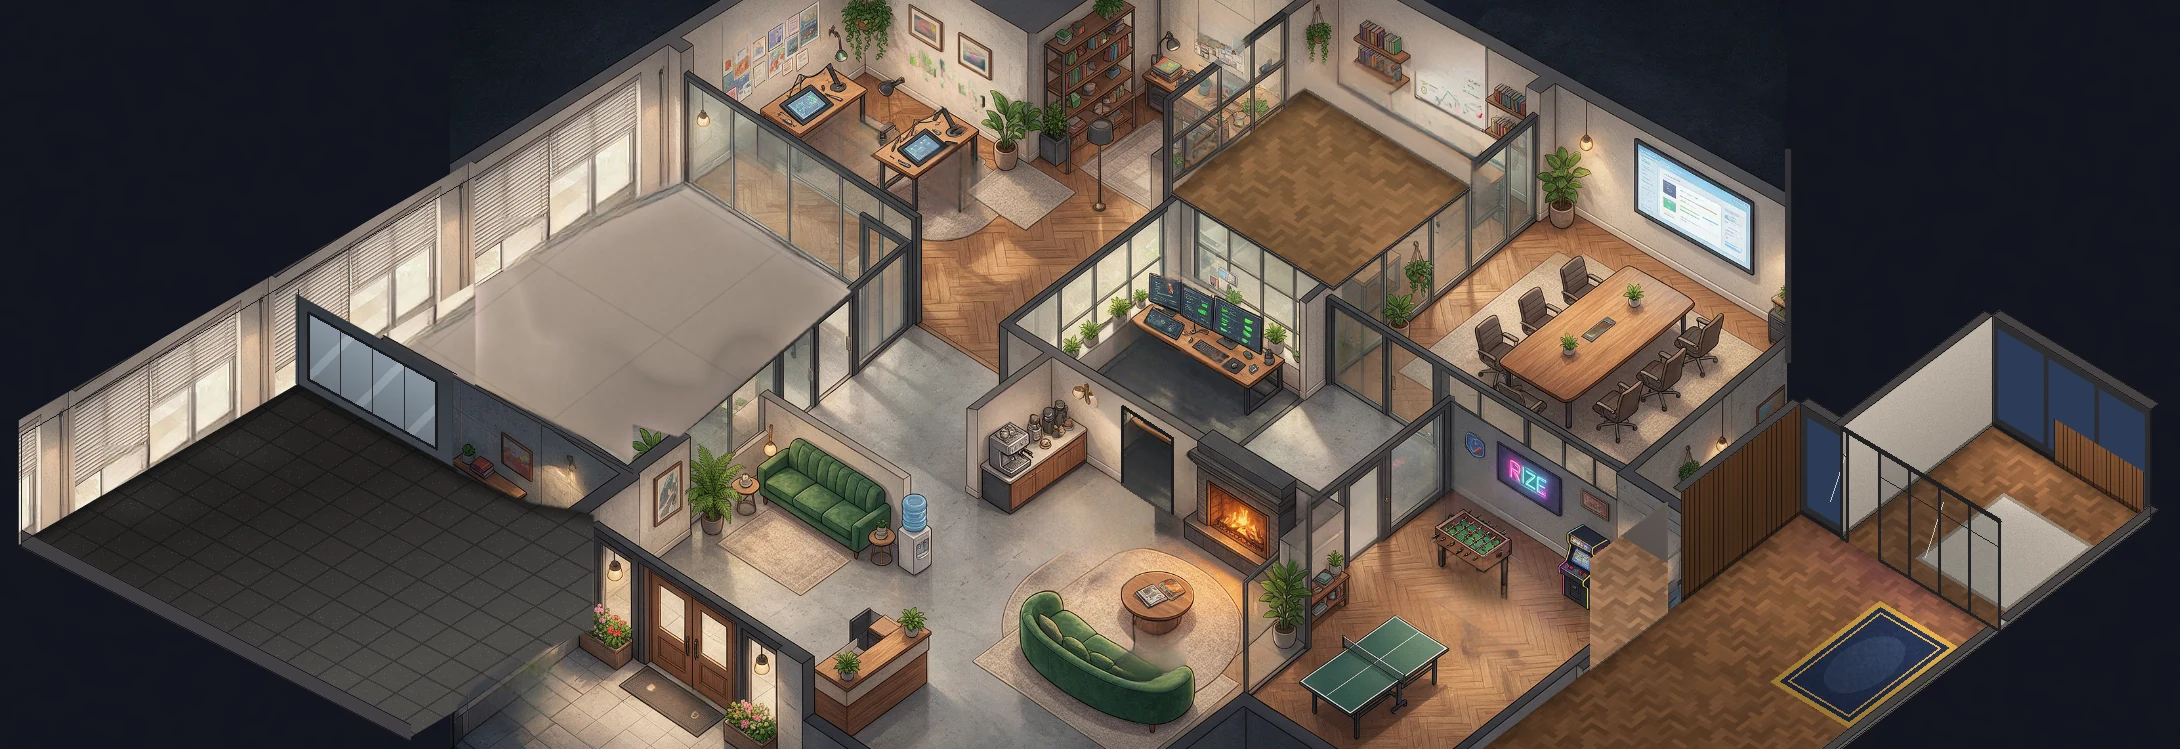
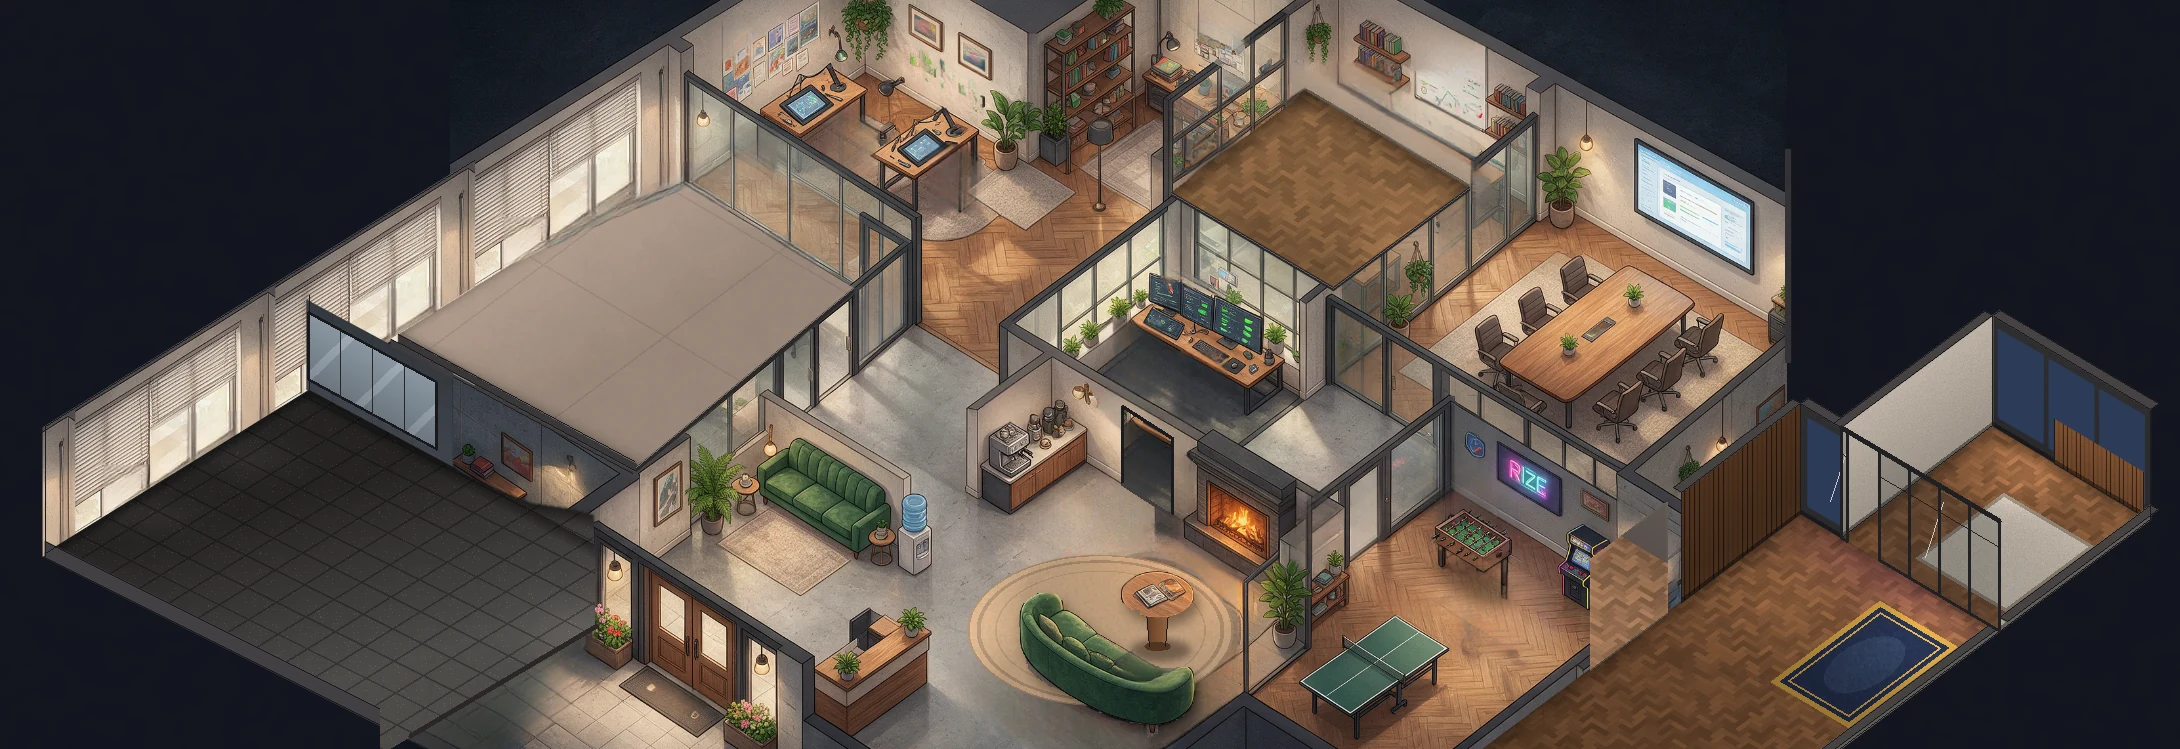
Office: seamless Dev/Gym window wall and wall caps, Game Hall glass front, whole lounge rug, clean gym/entrance corner, realistic QA monitors + mobile preview, chairs cover agents seated with their backs to us, COO seated at her MacBook, CEO sits in the sofa
Claude-Session: https://claude.ai/code/session_014QPjQaWDAzASPKphvhVXZU

diff --git a/apps/dashboard/src/components/office/engine/screens.ts b/apps/dashboard/src/components/office/engine/screens.ts
@@ -111,6 +111,7 @@ export class ScreenLayer {
         ctx.setTransform((tr.x - tl.x) / CW, (tr.y - tl.y) / CW, (bl.x - tl.x) / CH, (bl.y - tl.y) / CH, tl.x, tl.y);
         ctx.beginPath(); ctx.rect(0, 0, CW, CH); ctx.clip();
         drawApp(ctx, info, t, i, s.quads.length, s.agentId);
+        screenFinish(ctx);
         ctx.restore();
       });
     }
@@ -145,6 +146,7 @@ function drawApp(ctx: CanvasRenderingContext2D, info: ScreenInfo, t: number, ind
   const app = info.app;
   if (app === 'off') { bar(ctx, 0, 0, CW, CH, '#07080c'); return; }
   if (app === 'screensaver') { drawScreensaver(ctx, t, index, seed); return; }
+  if (app === 'review' && index === 3) { drawMobilePreview(ctx, info, t, rnd); return; }
   // A second monitor shows the "result" side (preview / tests / chart) of the same work.
   const side = count > 1 && index === count - 1;
   const title = info.title || 'Working';
@@ -226,16 +228,23 @@ function drawApp(ctx: CanvasRenderingContext2D, info: ScreenInfo, t: number, ind
       return;
     }
     case 'review': {
+      // QA station: the page under test (desktop), the checklist, the scores, and the mobile preview on the tablet.
+      if (index === 3) { drawMobilePreview(ctx, info, t, rnd); return; }
+      if (index === 0 && count > 2) { drawPagePreview(ctx, info, t, rnd, false); return; }
+      if (index === 2 && count > 2) { drawScores(ctx, info, t, rnd); return; }
       bar(ctx, 0, 0, CW, CH, '#0f1720');
-      text(ctx, side ? 'Checks' : `QA · ${title}`, 6, 11, 8, '#e2f7ec', CW - 12, 800);
+      bar(ctx, 0, 0, CW, 14, '#16212d');
+      text(ctx, `QA · ${title}`, 6, 10, 7.5, '#e2f7ec', CW - 12, 800);
       const n = 7;
       const done = Math.floor((t * 0.8) % (n + 3));
+      const labels = ['Links & buttons', 'Mobile layout', 'Spelling', 'Images / alt', 'Page speed', 'SEO meta', 'Brand check'];
       for (let i = 0; i < n; i++) {
-        const y = 20 + i * 10.5;
+        const y = 19 + i * 10.5;
         const state = i < done ? (rnd(i + 3) < 0.86 ? 'ok' : 'x') : i === done ? 'run' : 'wait';
         const c = state === 'ok' ? '#39d98a' : state === 'x' ? '#ff6b6b' : state === 'run' ? '#ffd166' : '#3b4a5a';
-        ctx.fillStyle = c; ctx.beginPath(); ctx.arc(10, y + 3, 3, 0, Math.PI * 2); ctx.fill();
-        bar(ctx, 18, y + 1.5, 40 + rnd(i) * 70, 3.4, state === 'wait' ? '#2b3746' : '#a9b8c9');
+        ctx.fillStyle = c; ctx.beginPath(); ctx.arc(10, y + 3.5, 3, 0, Math.PI * 2); ctx.fill();
+        text(ctx, labels[i], 18, y + 6, 6.5, state === 'wait' ? '#5b6b7d' : '#c9d6e3', 90, 600);
+        text(ctx, state === 'ok' ? 'pass' : state === 'x' ? 'fix' : state === 'run' ? '…' : '', CW - 26, y + 6, 6, c, 22, 700);
       }
       progressBar(ctx, info.progress, CH - 6, '#39d98a');
       return;
@@ -273,6 +282,81 @@ function drawApp(ctx: CanvasRenderingContext2D, info: ScreenInfo, t: number, ind
       progressBar(ctx, info.progress, CH - 6, info.color);
     }
   }
+}
+
+/** A web page being checked, scrolling slowly (desktop viewport). */
+function drawPagePreview(ctx: CanvasRenderingContext2D, info: ScreenInfo, t: number, rnd: (i: number) => number, _mobile: boolean) {
+  bar(ctx, 0, 0, CW, CH, '#f8fafc');
+  bar(ctx, 0, 0, CW, 11, '#e2e8f0');
+  [0, 1, 2].forEach((i) => { ctx.fillStyle = ['#ff5f57', '#febc2e', '#28c840'][i]; ctx.beginPath(); ctx.arc(6 + i * 6, 5.5, 2, 0, Math.PI * 2); ctx.fill(); });
+  bar(ctx, 26, 2.5, CW - 34, 6, '#ffffff'); text(ctx, 'staging.client-site.com', 29, 7.6, 5, '#64748b', CW - 40, 500);
+  ctx.save(); ctx.beginPath(); ctx.rect(0, 11, CW, CH - 11); ctx.clip();
+  const scroll = (t * 9) % 120;
+  ctx.translate(0, 11 - scroll);
+  bar(ctx, 0, 0, CW, 8, '#111827'); for (let i = 0; i < 4; i++) bar(ctx, CW - 70 + i * 16, 3, 11, 2, '#9ca3af');
+  bar(ctx, 0, 8, CW, 46, info.color || '#7c3aed');
+  text(ctx, info.title || 'Landing page', 10, 26, 10, '#ffffff', CW - 20, 800);
+  bar(ctx, 10, 32, 90, 3, 'rgba(255,255,255,.75)'); bar(ctx, 10, 38, 70, 3, 'rgba(255,255,255,.6)');
+  bar(ctx, 10, 44, 34, 7, '#ffffff');
+  for (let c = 0; c < 3; c++) { bar(ctx, 8 + c * 50, 60, 44, 30, '#e5e7eb'); bar(ctx, 12 + c * 50, 64, 36, 14, ['#c4b5fd', '#93c5fd', '#fcd34d'][c]); bar(ctx, 12 + c * 50, 82, 30, 3, '#9ca3af'); }
+  for (let i = 0; i < 8; i++) bar(ctx, 10, 98 + i * 8, 60 + rnd(i + 20) * 80, 3.2, '#cbd5e1');
+  bar(ctx, 0, 170, CW, 60, '#111827');
+  ctx.restore();
+  // QA highlight box hunting over the page
+  const hx = 12 + ((Math.sin(t * 0.7) + 1) / 2) * 90; const hy = 30 + ((Math.cos(t * 0.53) + 1) / 2) * 50;
+  ctx.strokeStyle = '#ef4444'; ctx.lineWidth = 1.2; ctx.setLineDash([3, 2]); ctx.strokeRect(hx, hy, 46, 18); ctx.setLineDash([]);
+}
+
+/** Lighthouse-style scores and a small trend. */
+function drawScores(ctx: CanvasRenderingContext2D, info: ScreenInfo, t: number, rnd: (i: number) => number) {
+  bar(ctx, 0, 0, CW, CH, '#0b1220');
+  text(ctx, 'Page checks', 6, 10, 7.5, '#e5e7eb', CW - 12, 800);
+  const names = ['Perf', 'A11y', 'SEO', 'Best'];
+  names.forEach((n, i) => {
+    const cx = 22 + i * 38; const cy = 38; const v = 0.72 + rnd(i + 9) * 0.26;
+    const p = Math.min(v, ((t * 0.3 + i * 0.2) % 1.6));
+    const c = v > 0.9 ? '#22c55e' : v > 0.8 ? '#f59e0b' : '#ef4444';
+    ctx.lineWidth = 3.4; ctx.strokeStyle = 'rgba(255,255,255,.12)'; ctx.beginPath(); ctx.arc(cx, cy, 12, 0, Math.PI * 2); ctx.stroke();
+    ctx.strokeStyle = c; ctx.beginPath(); ctx.arc(cx, cy, 12, -Math.PI / 2, -Math.PI / 2 + Math.PI * 2 * p); ctx.stroke();
+    text(ctx, `${Math.round(p * 100)}`, cx - 6, cy + 3, 7, '#f8fafc', 20, 800);
+    text(ctx, n, cx - 8, cy + 22, 6, '#94a3b8', 30, 600);
+  });
+  ctx.strokeStyle = '#38bdf8'; ctx.lineWidth = 1.4; ctx.beginPath();
+  for (let i = 0; i <= 16; i++) { const x = 8 + i * 9; const y = 86 - (rnd(i + 40) * 10 + i * 0.6); if (i) ctx.lineTo(x, y); else ctx.moveTo(x, y); }
+  ctx.stroke();
+  progressBar(ctx, info.progress, CH - 6, '#39d98a');
+}
+
+/** The tablet on the QA desk: the same page on two phone viewports (iPhone / Android), scrolling. */
+function drawMobilePreview(ctx: CanvasRenderingContext2D, info: ScreenInfo, t: number, rnd: (i: number) => number) {
+  bar(ctx, 0, 0, CW, CH, '#1f2937');
+  text(ctx, 'Mobile preview', 6, 9, 6.5, '#e5e7eb', 80, 700);
+  [0, 1].forEach((k) => {
+    const x = 22 + k * 64; const y = 13; const w = 44; const h = 82;
+    ctx.fillStyle = '#0b0b0f'; ctx.beginPath(); ctx.roundRect(x - 2.5, y - 2.5, w + 5, h + 5, 6); ctx.fill();
+    ctx.save(); ctx.beginPath(); ctx.roundRect(x, y, w, h, 4); ctx.clip();
+    bar(ctx, x, y, w, h, '#f8fafc');
+    const sc = ((t * 7 + k * 25) % 70);
+    ctx.translate(0, -sc);
+    bar(ctx, x, y + 6, w, 30, info.color || '#7c3aed');
+    text(ctx, info.title || 'Page', x + 3, y + 20, 5.5, '#fff', w - 6, 800);
+    bar(ctx, x + 3, y + 26, 22, 4, '#fff');
+    for (let i = 0; i < 10; i++) bar(ctx, x + 3, y + 42 + i * 7, 18 + rnd(i + k * 11) * 20, 2.6, '#cbd5e1');
+    bar(ctx, x + 3, y + 112, w - 6, 18, '#e5e7eb');
+    ctx.restore();
+    bar(ctx, x + w / 2 - 6, y + 1.5, 12, 2.6, '#0b0b0f'); // notch
+    // a tap ripple now and then
+    const ph = (t * 0.6 + k * 0.5) % 1;
+    if (ph < 0.35) { ctx.strokeStyle = `rgba(59,130,246,${0.8 - ph * 2})`; ctx.lineWidth = 1; ctx.beginPath(); ctx.arc(x + 12 + rnd(k + Math.floor(t * 0.6)) * 20, y + 30 + rnd(k + 5) * 30, 2 + ph * 14, 0, Math.PI * 2); ctx.stroke(); }
+  });
+}
+
+/** Glass finish over any screen: a thin dark bezel and a soft diagonal reflection. */
+function screenFinish(ctx: CanvasRenderingContext2D) {
+  const g = ctx.createLinearGradient(0, 0, CW, CH);
+  g.addColorStop(0, 'rgba(255,255,255,0.10)'); g.addColorStop(0.35, 'rgba(255,255,255,0.02)'); g.addColorStop(0.36, 'rgba(255,255,255,0)'); g.addColorStop(1, 'rgba(0,0,0,0.12)');
+  ctx.fillStyle = g; ctx.fillRect(0, 0, CW, CH);
+  ctx.strokeStyle = 'rgba(8,10,14,0.9)'; ctx.lineWidth = 3; ctx.strokeRect(0, 0, CW, CH);
 }
 
 /** RizeHub screensaver: navy grid, drifting aurora, twinkles, and the RizeHub wordmark gliding and bouncing

diff --git a/apps/dashboard/src/components/office/engine/OfficeScene.ts b/apps/dashboard/src/components/office/engine/OfficeScene.ts
@@ -608,7 +608,9 @@ export class OfficeScene extends Phaser.Scene {
       const wp = world(rp.x, rp.y);
       // Painter's order by the feet on screen; seated people sit just in front of their chair; someone on
       // the treadmill stands on its belt (in front of the machine).
-      c.view.place(wp.x, wp.y, wp.y + (m.phase === 'seated' ? 2 : 0) + (m.loop === 'treadmill' && m.at ? 90 : 0));
+      // someone sitting on a sprite sofa sits in front of its back and arms (the sofa's slices sort by its front edge)
+      const onSofaSprite = m.at?.startsWith('spot:ceo-sofa') && (m.phase === 'seated' || m.phase === 'sitting_down' || m.phase === 'standing_up');
+      c.view.place(wp.x, wp.y, wp.y + (m.phase === 'seated' ? 2 : 0) + (m.loop === 'treadmill' && m.at ? 90 : 0) + (onSofaSprite ? 34 * S : 0));
       const onScreen = wp.x > vx0 && wp.x < vx1 && wp.y > vy0 && wp.y < vy1;
       c.view.object.setVisible(onScreen);
       if (!onScreen) continue;

diff --git a/apps/dashboard/src/components/office/engine/characters.ts b/apps/dashboard/src/components/office/engine/characters.ts
@@ -181,7 +181,7 @@ class PoseView implements CharacterView {
     if (m.gesture) { const g = m.gesture.t / m.gesture.dur; bob -= Math.sin(g * Math.PI * 3) * (m.gesture.name === 'done' ? 0.07 : 0.03) * s * this.c.heightPx; }
     if (m.micro?.name === 'stretch') sy += Math.sin((m.micro.t / m.micro.dur) * Math.PI) * 0.05;
     if (m.phase === 'sitting_down' || m.phase === 'standing_up') sy *= 0.94;
-    const sitLift = (seated ? (pose === 'sit_type' ? 0.28 : pose === 'sofa_back' ? 0.2 : 0.25) : 0) * s * this.c.heightPx;
+    const sitLift = (seated ? (pose === 'sit_type' ? 0.2 : pose === 'sofa_back' ? 0.2 : 0.25) : 0) * s * this.c.heightPx;
     this.img.setOrigin(flip ? 1 - e.ax : e.ax, e.ay);
     this.img.setScale(flip ? -s : s, s * sy);
     this.img.setPosition(dx, bob - sitLift);

diff --git a/apps/dashboard/src/components/office/logic/office.test.ts b/apps/dashboard/src/components/office/logic/office.test.ts
@@ -226,7 +226,7 @@ test('director: status → place (desk, break spot, boardroom, offline)', () => 
   assert.equal(by.get('qa-lead')!.goal!.key, 'desk:qa-lead');
   assert.equal(by.get('qa-lead')!.screen, 'review');
   // demo has a request in "planning": the COO runs the meeting from the Boardroom head seat
-  assert.equal(by.get('coo')!.goal!.key, 'spot:board-head');
+  assert.equal(by.get('coo')!.goal!.key, 'desk:coo'); // she runs it seated at her laptop
   assert.ok(model.meeting?.label.startsWith('Meeting:'));
   const off: HqSnapshot = { ...s, agents: s.agents.map((a) => (a.id === 'writer' ? { ...a, enabled: false } : a)) };
   assert.equal(deriveOffice(off, { nowMs: 0 }).agents.find((a) => a.id === 'writer')!.goal, null);

diff --git a/apps/dashboard/src/components/office/engine/furniture.ts b/apps/dashboard/src/components/office/engine/furniture.ts
@@ -209,7 +209,10 @@ export class FurnitureLayer {
     c.img.setScale(1 - frac * 0.35, 1);
     // Someone sitting with their back to us is behind the backrest; facing us, the chair is behind them.
     // The seated person is always drawn over the chair (their back covers the backrest seen from behind).
-    c.img.setDepth(p.y + (occupied ? 1 : 0.5));
+    // Seen from behind (seat faces up / left) the backrest is between us and the person: the chair covers their
+    // back and hips, only head and shoulders show over it. Facing us, the person sits in front of the chair.
+    const backToUs = c.seat.face === 'up' || c.seat.face === 'left';
+    c.img.setDepth(p.y + (occupied ? (backToUs ? 3 : 1) : 0.5));
   }
 
   destroy() {

diff --git a/apps/dashboard/src/components/office/logic/director.ts b/apps/dashboard/src/components/office/logic/director.ts
@@ -182,7 +182,7 @@ export function deriveOffice(snap: HqSnapshot, opts: DeriveOptions): OfficeModel
     }
     // COO runs planning meetings in the Boardroom.
     if (t.id === COO_ID && plan) {
-      return { ...base, goal: spotGoal(head, 'present'), tag: `In the Boardroom · ${plan.label}`, badge: null, screen: 'screensaver' };
+      return { ...base, goal: deskGoal(m, t.id, 'type') ?? spotGoal(head, head.pose === 'sit' ? 'type' : 'present'), tag: `In the Boardroom · ${plan.label}`, badge: null, screen: 'screensaver' };
     }
     // The COO walks over to a desk to hand over a freshly queued task.
     if (t.id === COO_ID && (t.status === 'working' || t.status === 'idle')) {

diff --git a/apps/dashboard/src/components/office/engine/doors.ts b/apps/dashboard/src/components/office/engine/doors.ts
@@ -68,6 +68,7 @@ export class DoorLayer {
         g.lineStyle(2 * S, 0x24272b, 0.9);
         g.lineBetween(p.x, p.y, q.x, q.y); // floor track
         if (k === 0 || k === n - 1) { g.lineStyle(3.2 * S, 0x24272b, 1); const e = k === 0 ? p : q; g.lineBetween(e.x, e.y, e.x, e.y - h); }
+        else if (k % 3 === 0) { g.lineStyle(2.2 * S, 0x24272b, 0.95); g.lineBetween(p.x, p.y, p.x, p.y - h); } // mullion
         g.setDepth(Math.max(p.y, q.y));
         this.walls.push(g);
       }

diff --git a/scripts/office/fix_dev_edges.py b/scripts/office/fix_dev_edges.py
@@ -1,0 +1,81 @@
+"""Dev Team room edges after the gym extension (v5): one consistent concrete floor over the whole room (old part +
+the part the gym extension revealed), and clean wall tops: the front-left low wall's cap (continuing to the window
+wall) and the top rail of the glass partition on the front-right. Coordinates: OLD picture px (x offset E=450 in the
+extended canvas). Usage: python3 fix_dev_edges.py in.png out.png"""
+import os, sys
+import numpy as np, cv2 as cv
+sys.path.insert(0, os.path.dirname(os.path.abspath(__file__)))
+from iso import Mi, O
+from floorsynth import hash2  # noqa: F401  (kept for parity with the other floor scripts)
+
+E = 450
+HERE = os.path.dirname(os.path.abspath(__file__))
+BASE = lambda x: 302 - 0.62 * x            # window wall base (back-left)
+FL_IN = lambda x: 362 + 0.541 * x          # front-left low wall: inner edge of its cap
+FL_OUT = lambda x: 370 + 0.541 * x         # outer edge
+CORNER = (186.0, FL_OUT(186.0))            # front corner: the glass partition starts here
+RAIL_END = (403.0, 288.0)                  # top rail of the glass partition (up-right), ends at the dev door
+XL = (362 - 302) / (-0.62 - 0.541)         # back-left corner (window base ∩ front-left wall), ~ -51.7
+CAPC = np.array([56, 55, 58], np.float32)
+INK = (30, 27, 26)
+
+def P(x, y): return (x + E, y)
+def fill(m, pts, v=255):
+    cv.fillPoly(m, [np.array([[round((x + E) * 4), round(y * 4)] for x, y in pts], np.int32)], v, cv.LINE_AA, shift=2)
+def ln(c, p, q, col=INK, th=1):
+    cv.line(c, (round((p[0] + E) * 4), round(p[1] * 4)), (round((q[0] + E) * 4), round(q[1] * 4)), col, th, cv.LINE_AA, shift=2)
+
+def main(src, out):
+    img = cv.imread(src).astype(np.float32)
+    H, W = img.shape[:2]
+    # ---- the room's floor polygon (old px)
+    m_old = cv.imread(f'{HERE}/mask-floor-dev.png', 0)
+    floor = np.zeros((H, W), np.uint8)
+    floor[:, E:E + m_old.shape[1]] = m_old
+    poly = np.zeros((H, W), np.uint8)
+    rail_y = lambda x: CORNER[1] + (RAIL_END[1] - CORNER[1]) * (x - CORNER[0]) / (RAIL_END[0] - CORNER[0])
+    fill(poly, [(XL, BASE(XL)), (60, BASE(60)), (236, 188), (RAIL_END[0], RAIL_END[1]), CORNER, (XL, FL_OUT(XL))])
+    floor = np.maximum(floor, poly)
+    # keep painted things that stand on the floor out of the repaint: nothing (desks are sprites), but never paint
+    # over the window wall (above its base line)
+    ys, xs = np.mgrid[0:H, 0:W].astype(np.float32); xo = xs - E
+    floor[ys < BASE(xo) - 0.5] = 0
+    # ---- polished concrete laid out on the iso grid (same look as floorsynth.py's concrete)
+    px, py = xo - O[0], ys - O[1]
+    tx = Mi[0, 0] * px + Mi[0, 1] * py; ty = Mi[1, 0] * px + Mi[1, 1] * py
+    rng = np.random.default_rng(7)
+    n1 = cv.GaussianBlur(rng.standard_normal((H, W)).astype(np.float32), (0, 0), 6) * 0.9
+    n2 = cv.GaussianBlur(rng.standard_normal((H, W)).astype(np.float32), (0, 0), 1.2) * 0.35
+    f = 1 + n1 * 0.09 + n2 * 0.07
+    jx = np.abs(((tx + 1.5) % 3.0) - 1.5); jy = np.abs(((ty + 1.5) % 3.0) - 1.5)
+    f = f * np.where(np.minimum(jx, jy) < 0.02, 0.93, 1.0)
+    # light: brighter by the windows (back-left), falling off towards the front; soft pools under the windows
+    dwin = np.clip((ys - BASE(xo)) / 160.0, 0, 1)
+    L = 1.08 - 0.16 * dwin
+    L *= 1 - 0.22 * np.exp(-np.clip(ys - BASE(xo), 0, None) / 5.0)       # contact shadow at the window wall
+    L *= 1 - 0.25 * np.exp(-np.clip(FL_IN(xo) - ys, 0, None) / 6.0)      # and at the front low wall
+    # sample the base colour from the existing floor in the middle of the room
+    mid = (floor > 0) & (xo > 60) & (xo < 200) & (ys > 250) & (ys < 380)
+    base = np.median(img[mid].reshape(-1, 3), 0)
+    col = base[None, None, :] * (f * L)[..., None] * np.array([0.99, 1.0, 1.02], np.float32)
+    a = cv.GaussianBlur(floor.astype(np.float32) / 255, (0, 0), 0.6)[..., None]
+    img = col * a + img * (1 - a)
+    # ---- wall caps
+    cap = np.zeros((H, W), np.uint8)
+    fill(cap, [(XL, FL_IN(XL)), (CORNER[0] - 2, FL_IN(CORNER[0] - 2)), (CORNER[0] + 3, CORNER[1] - 3), CORNER, (XL, FL_OUT(XL))])
+    ca = (cap / 255.0)[..., None]
+    img = CAPC * ca + img * (1 - ca)
+    ln(img, (XL, FL_IN(XL)), (CORNER[0] - 2, FL_IN(CORNER[0] - 2)), (96, 96, 100))      # lit top edge
+    ln(img, (XL, FL_OUT(XL)), CORNER)
+    ln(img, (XL, FL_IN(XL) - 0.5), (CORNER[0] - 2, FL_IN(CORNER[0] - 2) - 0.5))
+    # glass partition top rail (dark aluminium, 3.5 px) from the corner up to the dev door
+    rail = np.zeros((H, W), np.uint8)
+    t = 3.5
+    fill(rail, [(CORNER[0], CORNER[1] - t), RAIL_END, (RAIL_END[0], RAIL_END[1] + t), (CORNER[0], CORNER[1])])
+    ra = (rail / 255.0)[..., None]
+    img = np.array([40, 40, 44], np.float32) * ra + img * (1 - ra)
+    ln(img, (CORNER[0], CORNER[1] - t), RAIL_END, (110, 110, 116))
+    cv.imwrite(out, np.clip(img, 0, 255).astype(np.uint8))
+
+if __name__ == '__main__':
+    main(sys.argv[1], sys.argv[2])

diff --git a/scripts/office/extend_gym.py b/scripts/office/extend_gym.py
@@ -11,8 +11,9 @@ import sys
 import numpy as np, cv2 as cv
 
 E = 450
-WALL_TOP = lambda x: 190 - 0.57 * x
-WALL_BASE = lambda x: 297 - 0.57 * x
+WALL_TOP = lambda x: 175 - 0.62 * x
+WALL_BASE = lambda x: 302 - 0.62 * x
+SL = 0.62
 CAP = lambda x: 371 + 0.54 * x
 DIV_BASE = lambda x: 466 + 0.54 * x
 GLASS = lambda x: 712 - 0.59 * x
@@ -46,17 +47,17 @@ def main(src, out):
     c[:, E:] = old
     X0 = -E
     # corners
-    xa = (466 - 297) / (-0.57 - 0.54)          # divider base ∩ wall base   (gym back-left)
-    xb = (756 - 297) / (-0.57 - 0.5)           # far wall ∩ wall base      (gym front-left)
+    xa = (466 - 302) / (-SL - 0.54)          # divider base ∩ wall base   (gym back-left)
+    xb = (756 - 302) / (-SL - 0.5)           # far wall ∩ wall base      (gym front-left)
     xc = (756 - 712) / (-0.59 - 0.5)           # far wall ∩ glass          (gym front corner)
-    xd = (371 - 297) / (-0.57 - 0.54)          # cap ∩ wall base           (dev corner)
+    xd = (371 - 302) / (-SL - 0.54)          # cap ∩ wall base           (dev corner)
     print('corners', xa, xb, xc, xd)
     # 1) back-left wall with windows: copy the dev window wall along its own direction (-1, 0.57), 210 px steps
-    wall = poly_mask((H, W), [(24, WALL_TOP(24) - 16), (xb - 2, WALL_TOP(xb - 2) - 16), (xb - 2, WALL_BASE(xb - 2) + 1), (24, WALL_BASE(24) + 1)])
+    wall = poly_mask((H, W), [(24, WALL_TOP(24) - 1), (xb - 2, WALL_TOP(xb - 2) - 1), (xb - 2, WALL_BASE(xb - 2) + 1), (24, WALL_BASE(24) + 1)])
     for k in range(1, 4):
         dx = -200 * k
-        seg = poly_mask((H, W), [(24 + dx, WALL_TOP(24 + dx) - 16), (24 + dx + 200, WALL_TOP(24 + dx + 200) - 16), (24 + dx + 200, WALL_BASE(24 + dx + 200) + 1), (24 + dx, WALL_BASE(24 + dx) + 1)]) * wall
-        shift_copy(c, seg, dx, -0.57 * dx)
+        seg = poly_mask((H, W), [(24 + dx, WALL_TOP(24 + dx) - 1), (24 + dx + 200, WALL_TOP(24 + dx + 200) - 1), (24 + dx + 200, WALL_BASE(24 + dx + 200) + 1), (24 + dx, WALL_BASE(24 + dx) + 1)]) * wall
+        shift_copy(c, seg, dx, -SL * dx)
     # the old picture's plant + edge at x<24 in the wall band is replaced too (covered above for x<24)
     # 2) dev floor extension (between the window wall base and the divider cap): copy the floor 3 tiles along V
     fl = poly_mask((H, W), [(xd, CAP(xd)), (24, CAP(24)), (24, WALL_BASE(24)), (xd, WALL_BASE(xd))])

diff --git a/scripts/office/lounge_rug.py b/scripts/office/lounge_rug.py
@@ -1,0 +1,43 @@
+import cv2 as cv, numpy as np
+base_im=cv.imread('work5.png').astype(np.float32)
+im=cv.imread('lng_lama.png').astype(np.float32); H,W=im.shape[:2]
+obj=cv.imread('obj.png',0)>0
+R=cv.imread('lama_mask.png',0)>0
+Y,X=np.mgrid[0:H,0:W].astype(np.float32)
+lum=im.mean(2)
+k=(R|((X>930)&(X<1240)&(Y>530)&(lum>90)&~obj)).astype(np.float32)
+lf=cv.GaussianBlur(lum*k,(0,0),22)/np.maximum(cv.GaussianBlur(k,(0,0),22),1e-3)
+ref=np.median(lum[(X>940)&(X<1000)&(Y>560)&(Y<640)])
+light=np.clip(lf/ref,0.7,1.35)[...,None]
+# warm glow from the fireplace (upper right)
+glow=np.exp(-(((X-1215)/90)**2+((Y-560)/60)**2))[...,None]
+rng=np.random.default_rng(3)
+cx,cy,rx,ry=1100,630,134,76
+e=((X-cx)/rx)**2+((Y-cy)/ry)**2
+rugm=(e<1)&~obj
+fib=cv.GaussianBlur(rng.standard_normal((H,W)).astype(np.float32),(0,0),0.7)*5
+lf2=cv.GaussianBlur(rng.standard_normal((H,W)).astype(np.float32),(0,0),6)*0.03
+rug=np.array([142,178,214],np.float32)*np.clip(light*1.05,0.85,1.3)*(1+lf2[...,None])+fib[...,None]
+rug=rug*(1+0.18*glow)+glow*np.array([-8,4,22],np.float32)
+ring=(e>0.80)&(e<0.855); rug[ring]*=0.84
+inner=(e>0.60)&(e<0.62); rug[inner]*=0.9
+rug[e>0.955]*=0.8
+aa=np.clip((1-e)/0.02,0,1)[...,None]*rugm[...,None]
+out=rug*aa+im*(1-aa)
+# shadows of the sofa and the table on the rug / floor
+o=obj.astype(np.float32)
+sh=cv.GaussianBlur(cv.warpAffine(o,np.float32([[1,0,5],[0,1,8]]),(W,H)),(0,0),6)*0.42
+t=np.zeros((H,W),np.float32); cv.ellipse(t,(1160,650),(30,11),0,0,360,1,-1); sh=np.maximum(sh,cv.GaussianBlur(t,(0,0),4)*0.4)
+sh*=(~obj)
+out=out*(1-sh[...,None])
+# walnut pedestal under the table top
+ped=np.array([(1146,612),(1168,612),(1165,646),(1149,646)],np.int32)
+pm=np.zeros((H,W),np.uint8); cv.fillPoly(pm,[ped],1); pm=(pm>0)&~obj
+gx=np.clip((X-1146)/22,0,1)
+wood=np.stack([38+26*gx,62+38*gx,100+48*gx],-1)
+out[pm]=wood[pm]
+cv.ellipse(out,(1157,646),(13,4),0,0,360,(34,52,80),-1,cv.LINE_AA)
+cv.line(out,(1146,612),(1149,646),(30,27,26),1,cv.LINE_AA); cv.line(out,(1168,612),(1165,646),(30,27,26),1,cv.LINE_AA)
+out[obj]=base_im[obj]
+cv.imwrite('work6.png',np.clip(out,0,255).astype(np.uint8))
+cv.imwrite('lng_vis.png',cv.resize(np.clip(out,0,255).astype(np.uint8)[520:749,920:1280],None,fx=3,fy=3))
